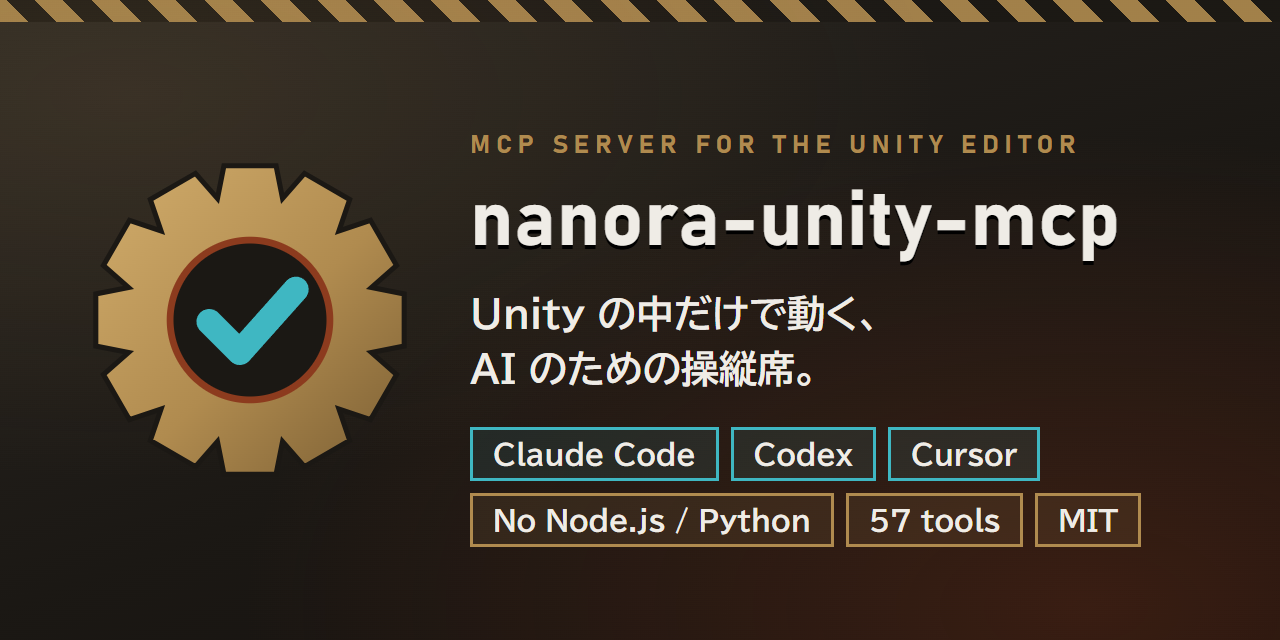
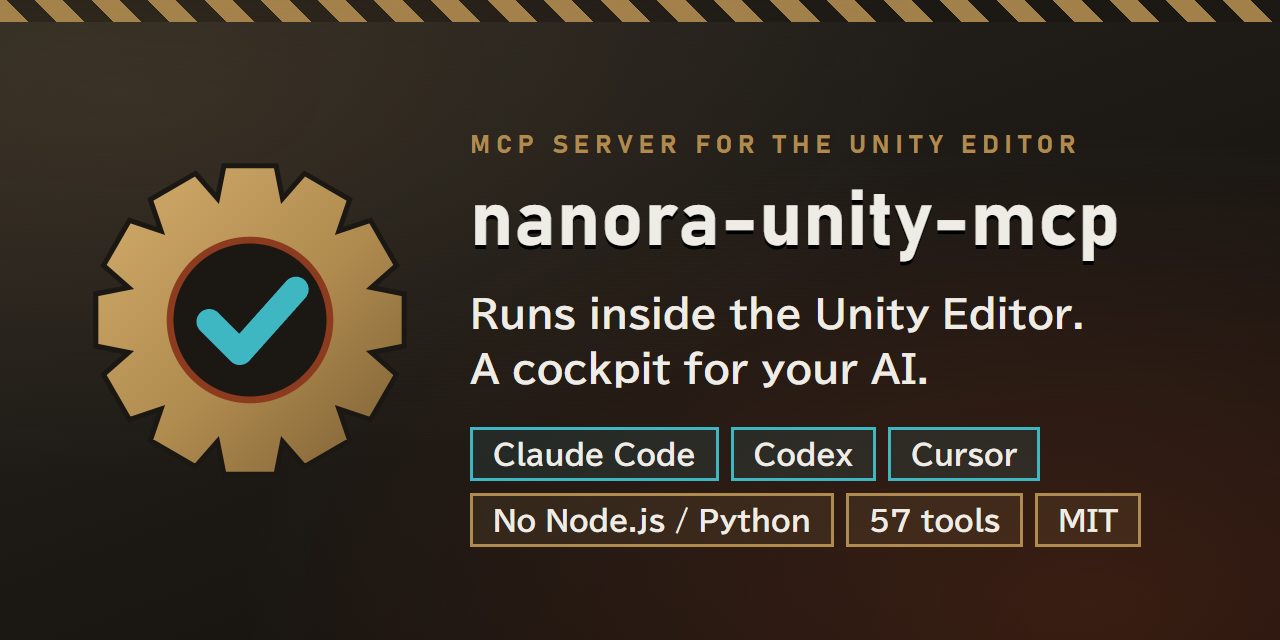
docs: English README by default, Japanese README, and a demo of what the AI built (#7)
* docs: English README by default with a Japanese README, and a demo of what the AI built

- README.md links to README.ja.md (English | 日本語); the quick starts and the issue
  chooser link to the English quick start first, each with a language switch.
- "Try it" becomes "See it build something": six prompts, one per level, with GIFs of
  the result and what the AI checked at each step, then the shooting sample to try.

* docs: English banner for README.md, the Japanese one for README.ja.md

brand.html gets a social-ja frame; render-media.mjs writes media/social-preview-ja.png.

Changed region(s): [[0.375, 0.4375, 0.8438, 0.625]]

diff --git a/media/src/brand.html b/media/src/brand.html
@@ -70,6 +70,17 @@
   <div style="position:absolute;left:470px;top:130px;right:70px">
     <div class="kicker">MCP SERVER FOR THE UNITY EDITOR</div>
     <div class="title" style="font-size:78px;margin:14px 0 18px">nanora-unity-mcp</div>
+    <div style="font-size:38px;font-weight:700;color:#efece6;line-height:1.45">Runs inside the Unity Editor.<br>A cockpit for your AI.</div>
+    <div style="margin-top:30px"><span class="chip cy">Claude Code</span><span class="chip cy">Codex</span><span class="chip cy">Cursor</span><span class="chip">No Node.js / Python</span><span class="chip">57 tools</span><span class="chip">MIT</span></div>
+  </div>
+</section>
+
+<section class="frame" id="social-ja" data-w="1280" data-h="640">
+  <div class="stripe"></div><div class="glow"></div>
+  <div class="m" style="position:absolute;left:80px;top:150px;width:340px;height:340px"></div>
+  <div style="position:absolute;left:470px;top:130px;right:70px">
+    <div class="kicker">MCP SERVER FOR THE UNITY EDITOR</div>
+    <div class="title" style="font-size:78px;margin:14px 0 18px">nanora-unity-mcp</div>
     <div style="font-size:38px;font-weight:700;color:#efece6;line-height:1.45">Unity の中だけで動く、<br>AI のための操縦席。</div>
     <div style="margin-top:30px"><span class="chip cy">Claude Code</span><span class="chip cy">Codex</span><span class="chip cy">Cursor</span><span class="chip">No Node.js / Python</span><span class="chip">57 tools</span><span class="chip">MIT</span></div>
   </div>

diff --git a/README.ja.md b/README.ja.md
@@ -1,0 +1,166 @@
+# nanora-unity-mcp
+
+![nanora-unity-mcp](media/social-preview-ja.png)
+
+**Unity Editor の中で動く MCP サーバー。** Claude Code・Codex・Cursor などの MCP クライアントから、Unity プロジェクトを作る・遊ぶ・テストする・計測する。ほかに入れるものはありません。
+
+[![Unity 2021.3+](https://img.shields.io/badge/Unity-2021.3%2B-black?logo=unity)](https://unity.com/)
+[![Unity 6](https://img.shields.io/badge/Unity%206-Supported-black?logo=unity)](https://unity.com/releases/unity-6)
+[![License: MIT](https://img.shields.io/badge/License-MIT-green.svg)](LICENSE)
+
+[English](README.md) | **日本語**
+
+## 特長
+
+- **Unity だけで動く。** サーバーは Editor のプロセスで動く C# です。Node.js も Python も、別のサーバーも、アカウントや契約も要りません。
+- **Codex と Claude が同じサーバーに。** Codex などの HTTP クライアントは `/mcp`（Streamable HTTP）、Claude Code・Claude Desktop・Cursor は `/sse`（SSE）。
+- **自分の作業を確かめる。** Playwright 風のセレクタ、`wait_for_selector`・`assert_ui_state`・`simulate_input` で、AI がゲームを遊んで結果を確かめます。同梱の Skill で「本当に反映されたか」の確認を作業の手順に入れます。
+- **Unity を何個開いても混線しない。** ポートはプロジェクトのパスから決まり、Claude Code 用の `.mcp.json` も自動で書きます。`/health` がプロジェクト名を返すので、正しい Editor につないだか確かめられます。
+- **ローカルだけ。** 127.0.0.1 だけで待ち受け、外部のブラウザーからの要求は断り、応答は要求したクライアントにだけ返します。
+
+## 導入
+
+**Package Manager（Git URL）** — Window > Package Manager > **+** > *Add package from git URL…*
+
+```
+https://github.com/nanora-sama/nanora-unity-mcp.git?path=Assets/NanoraUnityMCP
+```
+
+**Tarball** — [Releases](https://github.com/nanora-sama/nanora-unity-mcp/releases) か BOOTH から `com.nanora.nanora-unity-mcp-<version>.tgz` をダウンロードし、*Package Manager > **+** > Add package from tarball…* で選びます。必要なパッケージも自動で入ります。
+
+**.unitypackage** — 先に `com.unity.nuget.newtonsoft-json` を入れてから（*Add package by name…*）、*Assets > Import Package > Custom Package…*。.unitypackage は依存パッケージを入れられず、サンプルも含みません。
+
+Unity 2021.3 LTS 以降。サーバーは Editor と一緒に起動し、初回は Setup Wizard（**Window > Unity MCP > Setup Wizard**）が開きます。
+
+## クライアントをつなぐ
+
+ポートはプロジェクトのパスから決まり（51726〜51825）、**Window > Unity MCP Server** に表示されます。
+
+| クライアント | 方法 |
+|---|---|
+| Claude Code | プロジェクトのフォルダで `claude` を起動。`.mcp.json` は自動で作られます |
+| Codex | `codex mcp add nanora-unity-mcp --url http://127.0.0.1:<PORT>/mcp` |
+| Claude Desktop | `claude_desktop_config.json` に `"nanora-unity-mcp": { "url": "http://localhost:<PORT>/sse" }` |
+| Cursor | 同じ内容を `.cursor/mcp.json` に |
+
+見つかったクライアントは Setup Wizard が設定できます。Unity が前面にないときも応答するよう、ウィザードで **Background Execution** を有効にしてください（`configure_editor` の `optimize_for_mcp` でも可）。
+
+## 作っているところを見る
+
+Lv ごとに指示は 1 本だけ。指示のあとは人の手を入れていません。Claude Code がこのサーバーで Unity を操作し、スクリーンショット・入力・テストで自分の作業を確かめ、見つけたところを直しました。Lv.6 で全部を合わせて、ゲーム配信の画面にしています。
+
+![Lv.6: ゲーム・キャラクターのワイプ・配信の飾りを、すべて AI が作った画面](media/demo/demo-stream.gif)
+
+<table>
+<tr>
+<td align="center"><img src="media/demo/demo-game.gif" height="260" alt="Lv.1: 空のシーンから作ったネオン風のシューティング"><br><sub>Lv.1 空のシーンからシューティング</sub></td>
+<td align="center"><img src="media/demo/demo-camera.gif" height="260" alt="Lv.3: ドリー・クレーン・引きのカメラのループ"><br><sub>Lv.3 カメラワーク</sub></td>
+<td align="center"><img src="media/demo/demo-menu.gif" height="260" alt="Lv.4: 選ぶとカメラが動く開始画面"><br><sub>Lv.4 始まりの画面</sub></td>
+</tr>
+</table>
+
+| Lv | 指示（要約） | AI が確かめたこと |
+|---|---|---|
+| 1 | 縦スクロールのシューティングを最初から作って。左右で移動、スペースで撃つ、当てたらスコア +1、夜のネオン風。できたら `run_e2e_test` で遊んで確かめて。 | 1 回目は弾が出なかった。1 キーずつ押してゲームの値とこのサーバー自身のコードを読み、押しっぱなしのキーが外れていたのを見つけて 200 ms ごとに押し直し、3 回目で合格。 |
+| 2 | 新しいシーンに Live2D のキャラクターを置いて、表情を 3 つ大げさに（満面の笑み・青ざめ・舌出しウインク）。 | 先に各パラメータの範囲と物理演算の連動を調べた。青ざめが灰色に見えたので、それを描く重ね絵を探して青く染めた。 |
+| 3 | 回り込んで顔へ寄るドリー、あおりへのクレーン、引いて全身へ戻る 12 秒のループ。30fps で書き出して、コマを見て直して。 | 1 周 360 コマを書き出し、カメラの数値を読んだ。顔のアップで頭の飾りが切れていたのを直し、3 回目で解消。 |
+| 4 | スタイリッシュな配信の始まりの画面。タイトルとメニュー 3 つ、上下と Enter、選ぶたびにカメラが切り替わる。 | キーを押して見た。タイトルの文字の切れ・曜日の誤り・お知らせを横切る線の 3 つを直した。 |
+| 5 | LED がちかちかする薄暗い倉庫の配信室を Blender で作り、Unity へ持ち込む。 | 見本の絵と見比べて、近づくまで直した（Blender の部分は別の道具を使っています）。 |
+| 6 | これまでの部品を全部集めて、ゲーム配信の画面に。倉庫の部屋・キャラクター・カメラ・始まりの画面。「配信をはじめる」でゲーム大＋キャラクターのワイプ。 | 1 回目はゲーム側のシーンがメインのカメラを取り、ワイプが操作説明を隠していた。カメラを直し、ゲームを 160px 左へ寄せた。 |
+
+キャラクター（なのら）とデモのプロジェクトは同梱していません。パッケージに入っているのはサーバー・Skill・下のサンプルです。
+
+### 自分で試す
+
+パッケージのページから **Samples > Shooting Game Sample** を取り込み、AI にこう頼みます。
+
+```
+シューティングゲームのサンプルのシーンを作って Play し、スペースを 5 回押して、
+ScoreText が 0 より大きいか確かめてからスクリーンショットを見せて。
+```
+
+`execute_menu_item`・`manage_playmode`・`simulate_input`・`assert_ui_state`・`capture_screenshot` を呼びます。ほかの頼み方は[サンプルの README](Assets/NanoraUnityMCP/Samples~/ShootingGame/README.md)にあります。
+
+## ツール
+
+18 分類・57 ツール（ほかに SuperSave モード用の `list_categories` / `list_tools` / `execute`。下で説明）。
+
+| 分類 | ツール |
+|---|---|
+| シーン | `get_scene_hierarchy`, `get_object_details`, `create_game_object`, `modify_game_object`, `delete_game_object`, `manage_scene` |
+| 検索 | `query_objects`（U-Selector）, `search_assets`, `wait_for_selector` |
+| 一括 | `batch_modify`, `batch_execute`, `destroy_objects`, `set_active`, `instantiate_asset` |
+| コード | `execute_csharp`（Roslyn）, `execute_menu_item`, `compile_project`, `get_compilation_errors`, `unity_reflect` |
+| Play とテスト | `manage_playmode`, `simulate_input`, `assert_ui_state`, `run_tests`, `get_test_results`, `run_e2e_test`, `visual_regression_test`, `performance_budget_test`, `generate_test_report` |
+| 性能 | `analyze_frame`, `analyze_memory`, `profile_cpu`, `get_profiler_stats` |
+| 診断 | `capture_screenshot`, `get_console_logs`, `mcp_status`, `diagnose_materials`, `repair_materials`, `configure_editor`, `setup_status`, `reconfigure_client`, `install_skills` |
+| アセットとパッケージ | `manage_assets`, `manage_prefabs`, `manage_packages`, `install_package`, `uninstall_package` |
+| シーンづくり | ライト・カメラ・Cinemachine・UI のキャンバスと要素・アニメーション・音 |
+
+詳しくは [Documentation~/ToolReference.md](Assets/NanoraUnityMCP/Documentation~/ToolReference.md)（英語）。
+
+**SuperSave モード**: `NANORA_MCP_SUPERSAVE=1` で起動すると、3 つのメタツールだけを見せます。AI は分類の一覧 → 1 分類のツール → `execute` で呼ぶ、の順にたどるので、ツールの一覧が AI の文脈を埋めません。
+
+### U-Selector
+
+```
+#Player                 名前で
+.Camera                 コンポーネントの型で
+/Canvas/Menu/PlayButton 階層のパスで
+.Enemy[tag=Boss]        属性で絞り込み
+ui:#StartButton         UI Toolkit の要素を名前で
+```
+
+## Claude Code の Skill
+
+Claude Code を設定すると `<Project>/.claude/skills/` に入ります。更新しても自分で直した内容は残ります（`install_skills` の `force: true` で上書き）。
+
+| Skill | すること |
+|---|---|
+| `/unity-verify-applied` | 「できた」と言う前に、保存されたファイル・動いている状態・見た目の結果を確かめる |
+| `/unity-pre-pr-check` | PR の前に、リビジョン・テスト・保存状態・見た目の動きを確かめる |
+| `/unity-e2e-test` | Play モードのスモークテスト（待つ・入力・判定・スクリーンショット） |
+| `/unity-material-repair` | ピンクのマテリアルを見つけて直し、前後のスクリーンショットを撮る |
+| `/unity-performance-budget` | FPS・描画数・メモリを予算と比べる |
+| `/unity-scene-setup` | ライト・カメラ・地面のある新しいシーンを作る |
+
+## エンドポイント
+
+| パス | 用途 |
+|---|---|
+| `POST /mcp` | Streamable HTTP（状態なし・JSON で応答）。通知には `202` |
+| `GET /sse` + `POST /message?sessionId=…` | 従来の SSE。接続ごとに別のセッション |
+| `POST /message` | スクリプト用の JSON-RPC の直接の要求・応答 |
+| `GET /health` | プロジェクト名とパス・プロセス ID・版・プロトコルの版・トランスポート。コンパイル中も応答 |
+| `unity://project/info`, `unity://editor/state` | 読み取り専用のリソース：どのプロジェクトか・コンパイルの失敗・Play/一時停止・読み込み中と未保存のシーン |
+
+プロトコルは 2024-11-05〜2025-11-25 の版で合わせます。
+
+### ドメインリロード
+
+コンパイルや Play モードへの切り替えでスクリプトが読み直され、サーバーは数秒止まります。リロードで打ち切られた要求には、その旨の JSON-RPC エラーを返します。ツールの処理はもう終わっているかもしれません。`/health` が応答するまで待ち、状態を読んでから（`mcp_status`・`unity://editor/state`・`manage_playmode` の status）、変更をやり直すか決めてください。変更の操作をそのまま繰り返さないこと。**Project Settings > Editor > Enter Play Mode Settings** で *Reload Domain* を切ると、Play のときのリロードがなくなります。
+
+## 導入の確認
+
+Node.js 20 以降で（この確認のときだけ必要です）:
+
+```
+node scripts/mcp/verify-transport.mjs   # ハンドシェイク・通知・エラー・Origin・SSE の分離・ツール呼び出し
+node scripts/mcp/verify-codex.mjs       # 入っている Codex クライアントがツールを一覧して呼べるか
+```
+
+## セキュリティ
+
+`execute_csharp` と `execute_menu_item` は、あなたの権限で Editor の中のコードを実行します。サーバーはループバック（127.0.0.1）だけで待ち受けます。その設定は変えず、AI クライアントに何を呼ばせるかを確かめてください。`execute_csharp` は一部の API（プロセスの起動・Web クライアント）を止め、終わらないループを打ち切りますが、サンドボックスではありません。
+
+## 困ったとき
+
+- クイックスタートと「困ったとき」: [日本語](Assets/NanoraUnityMCP/Documentation~/QuickStart_JP.md) / [English](Assets/NanoraUnityMCP/Documentation~/QuickStart.md)
+- 質問・不具合・要望: [SUPPORT.md](SUPPORT.md) → [Issues](https://github.com/nanora-sama/nanora-unity-mcp/issues/new/choose)（日本語で大丈夫です）
+- セキュリティ: [SECURITY.md](SECURITY.md) · 貢献: [CONTRIBUTING.md](CONTRIBUTING.md)
+
+## ライセンス
+
+[MIT](LICENSE)。同梱の Roslyn と System.* のアセンブリ: [THIRD-PARTY-NOTICES.md](THIRD-PARTY-NOTICES.md)。
+
+Issue と Pull Request: [GitHub](https://github.com/nanora-sama/nanora-unity-mcp/issues)。

diff --git a/README.md b/README.md
@@ -8,7 +8,7 @@
 [![Unity 6](https://img.shields.io/badge/Unity%206-Supported-black?logo=unity)](https://unity.com/releases/unity-6)
 [![License: MIT](https://img.shields.io/badge/License-MIT-green.svg)](LICENSE)
 
-日本語のクイックスタート: [Assets/NanoraUnityMCP/Documentation~/QuickStart_JP.md](Assets/NanoraUnityMCP/Documentation~/QuickStart_JP.md)
+**English** | [日本語](README.ja.md)
 
 ## Why this one
 
@@ -45,7 +45,32 @@ The port is chosen from the project path (51726–51825) and shown in **Window >
 
 The Setup Wizard can configure detected clients for you. Enable **Background Execution** in the wizard (or call `configure_editor` with `optimize_for_mcp`) so Unity answers while it is not focused.
 
-## Try it
+## See it build something
+
+Six prompts, one per level, and nothing touched by hand after each prompt. Claude Code drove Unity through this server, checked its own work with screenshots, input and tests, and fixed what it found. Level 6 puts the pieces together into a game-stream screen:
+
+![Level 6: the game, the character wipe and the stream overlay, all built by the AI](media/demo/demo-stream.gif)
+
+<table>
+<tr>
+<td align="center"><img src="media/demo/demo-game.gif" height="260" alt="Level 1: a neon shooter built from an empty scene"><br><sub>Lv.1 a shooter from an empty scene</sub></td>
+<td align="center"><img src="media/demo/demo-camera.gif" height="260" alt="Level 3: a dolly, crane and pull-back camera loop"><br><sub>Lv.3 camera work</sub></td>
+<td align="center"><img src="media/demo/demo-menu.gif" height="260" alt="Level 4: a stylised start menu that moves the camera"><br><sub>Lv.4 start menu</sub></td>
+</tr>
+</table>
+
+| Lv | The prompt (abridged) | What the AI did to check it |
+|---|---|---|
+| 1 | Build a vertical shooter from scratch. Left/right to move, Space to shoot, +1 per hit, night-neon look. Then play it with `run_e2e_test`. | The first run fired no bullets. It pressed one key at a time, read the game's values and this server's own code, found that a held key was being released, re-pressed it every 200 ms, and passed on the third run. |
+| 2 | Put the Live2D character in a new scene and make three exaggerated expressions: a beaming smile, turning pale, a wink with the tongue out. | Read each parameter's range and its physics links first. "Pale" came out grey, so it found the overlay that draws it and tinted it blue. |
+| 3 | A 12-second loop: dolly round to the face, crane down to a low angle, pull back to full body. Render at 30 fps and check the frames. | Rendered all 360 frames and read the camera values. The close-up cut off the hair ornament; the third render was clean. |
+| 4 | A stylised start screen: a title and three menu items, Up/Down and Enter, a camera switch per item. | Pressed the keys and looked: a clipped letter in the title, the wrong weekday, a line across the notice. Fixed all three. |
+| 5 | A dim warehouse streaming room with flickering LEDs, built in Blender and brought into Unity. | Compared renders with a reference picture until they matched. (The Blender part uses other tools.) |
+| 6 | Bring everything together into a game-stream screen: the room, the character, the cameras, the start screen; "Start stream" shows the game large with the character in a wipe. | The first screen let the game scene take the main camera, and the wipe hid the controls. It fixed the camera and moved the game 160 px left. |
+
+The character (nanora) and the demo projects are not included; the package ships the server, the skills and the sample below.
+
+### Try it yourself
 
 Import **Samples > Shooting Game Sample** from the package page, then ask your AI:
 
@@ -54,9 +79,7 @@ Build the shooting game sample scene, play it, tap Space five times,
 check that ScoreText is greater than 0, and show me a screenshot.
 ```
 
-It will call `execute_menu_item`, `manage_playmode`, `simulate_input`, `assert_ui_state` and `capture_screenshot`. See the [sample README](Assets/NanoraUnityMCP/Samples~/ShootingGame/README.md).
-
-![The sample driven over MCP: score 3 after simulated Space taps](media/screenshot-editor.png)
+It will call `execute_menu_item`, `manage_playmode`, `simulate_input`, `assert_ui_state` and `capture_screenshot`. More prompts are in the [sample README](Assets/NanoraUnityMCP/Samples~/ShootingGame/README.md).
 
 ## Tools
 
@@ -132,7 +155,7 @@ node scripts/mcp/verify-codex.mjs       # an installed Codex client lists and ca
 
 ## Help
 
-- Quick start and troubleshooting: [日本語](Assets/NanoraUnityMCP/Documentation~/QuickStart_JP.md) / [English](Assets/NanoraUnityMCP/Documentation~/QuickStart.md)
+- Quick start and troubleshooting: [English](Assets/NanoraUnityMCP/Documentation~/QuickStart.md) / [日本語](Assets/NanoraUnityMCP/Documentation~/QuickStart_JP.md)
 - Questions, bugs, ideas: [SUPPORT.md](SUPPORT.md) → [Issues](https://github.com/nanora-sama/nanora-unity-mcp/issues/new/choose)
 - Security: [SECURITY.md](SECURITY.md) · Contributing: [CONTRIBUTING.md](CONTRIBUTING.md)
 

diff --git a/Assets/NanoraUnityMCP/Documentation~/QuickStart_JP.md b/Assets/NanoraUnityMCP/Documentation~/QuickStart_JP.md
@@ -1,5 +1,7 @@
 # nanora-unity-mcp クイックスタート
 
+[English](QuickStart.md) | **日本語**
+
 Unity Editor の中で動く MCP サーバーです。Claude Code・Codex・Cursor などの AI から Unity を操作できます。
 Node.js や Python、別のサーバーは要りません。導入から最初の操作まで 5 分ほどです。
 

diff --git a/Assets/NanoraUnityMCP/Documentation~/QuickStart.md b/Assets/NanoraUnityMCP/Documentation~/QuickStart.md
@@ -1,5 +1,7 @@
 # nanora-unity-mcp Quick Start
 
+**English** | [日本語](QuickStart_JP.md)
+
 An MCP server that runs inside the Unity Editor, so Claude Code, Codex, Cursor and other MCP clients can operate Unity.
 No Node.js, Python or separate server. About five minutes from install to the first command.
 
